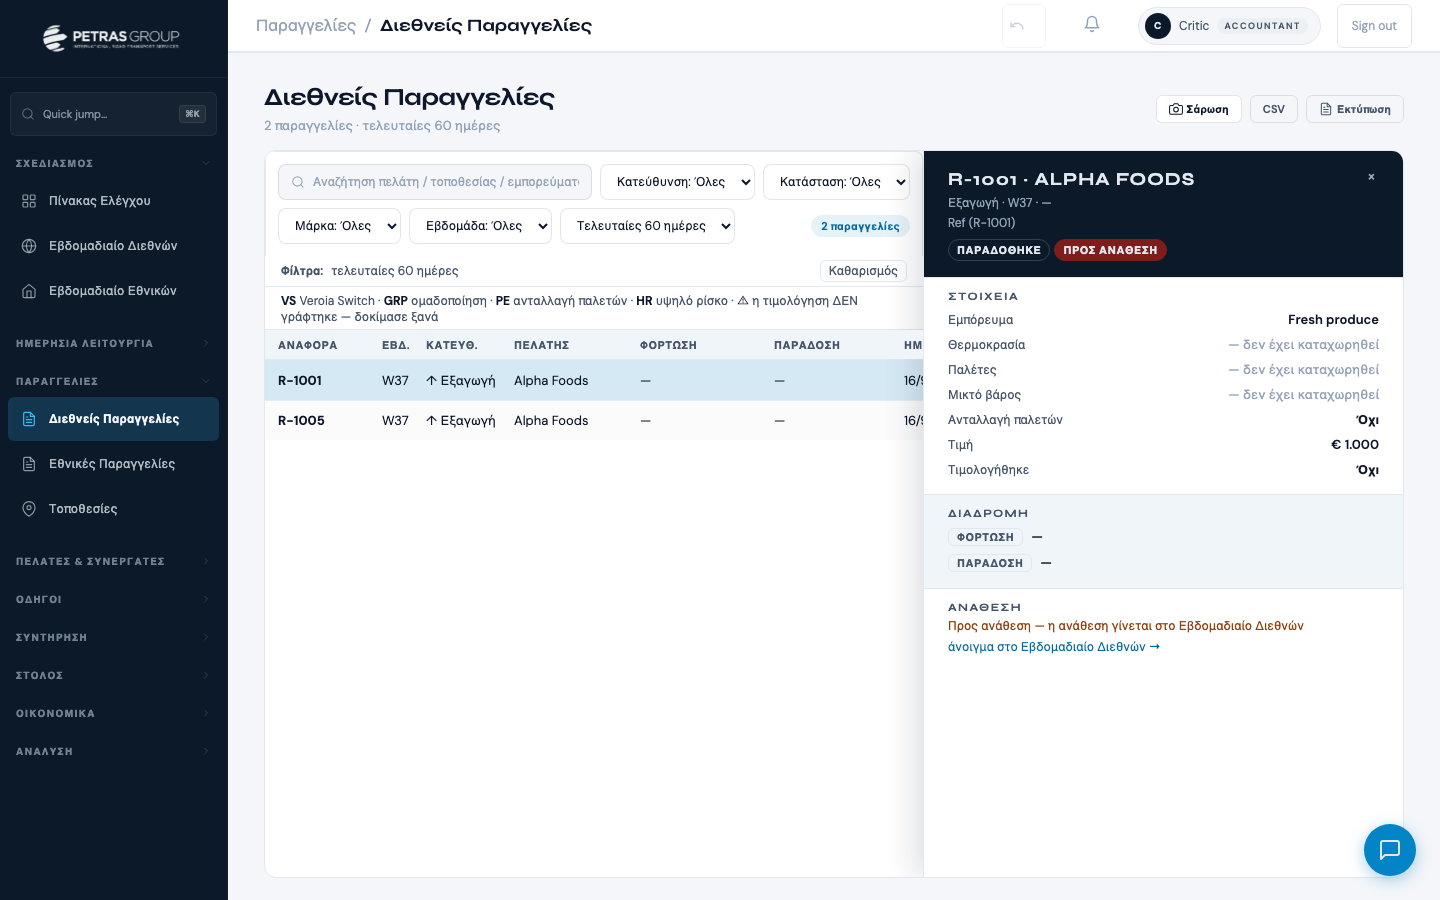
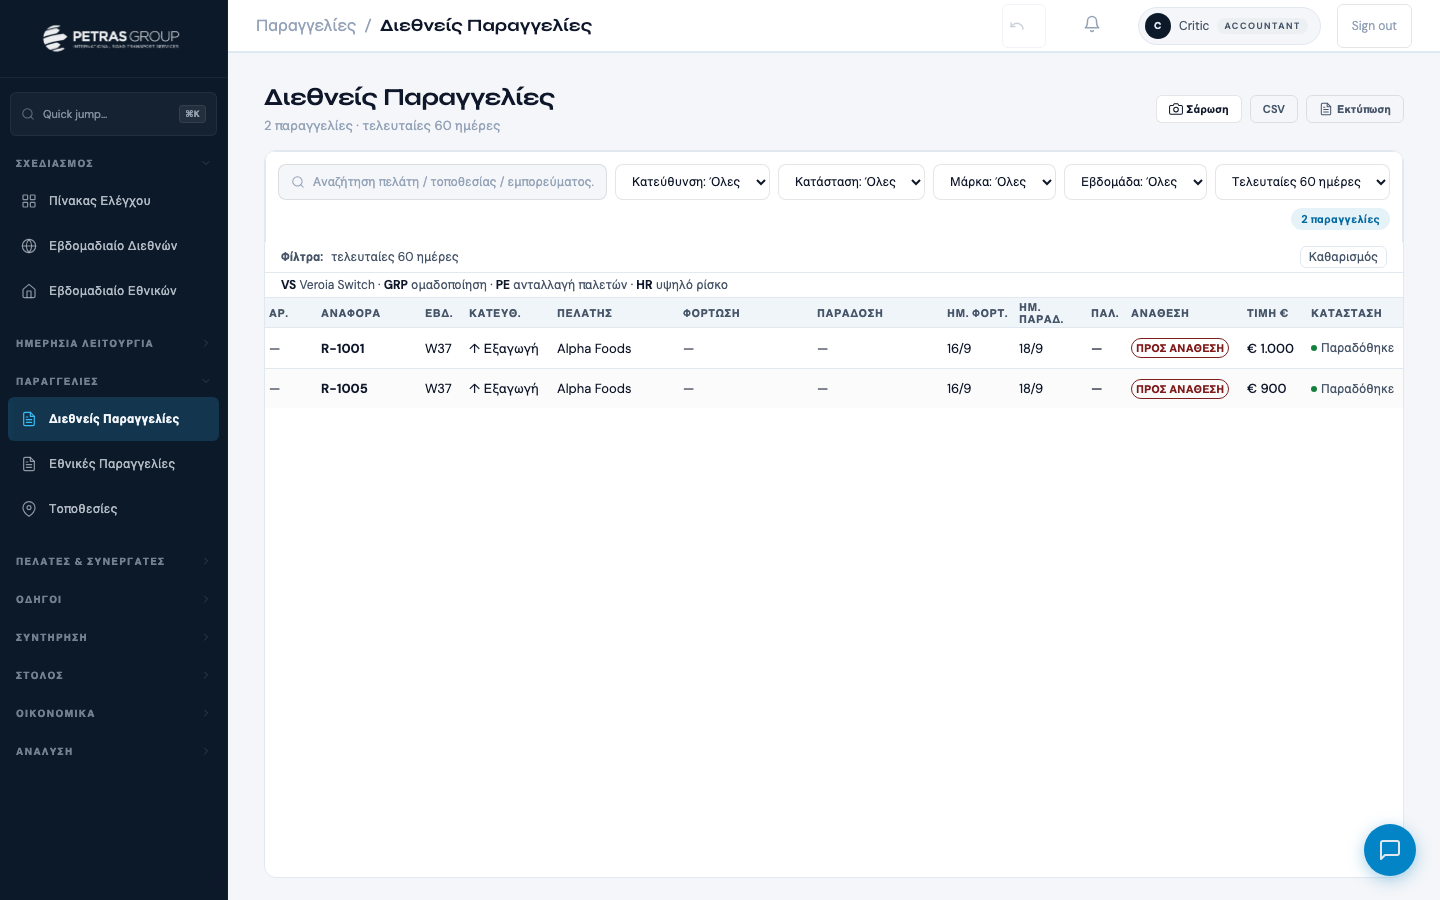
Παραγγελίες: μετά την αφαίρεση της δεύτερης πόρτας — φεύγει η λεζάντα «⚠ η τιμολόγηση ΔΕΝ γράφτηκε» (intl+natl), το νεκρό _onInvErr/ring CSS των Εθνικών, το cursor:pointer του κελιού· screenshots «μετά» με κλειστό πάνελ και στις δύο λίστες (✓ μόνο-ανάγνωση, 0 PATCH)

Changed region(s): [[0.1562, 0.1556, 1.0, 0.5289], [0.6562, 0.56, 0.9062, 0.7467], [0.4062, 0.2489, 0.5, 0.28]]

diff --git a/modules/orders_natl.js b/modules/orders_natl.js
@@ -50,7 +50,6 @@ async function renderOrdersNatl() {
     Object.keys(_natlFilters).forEach(k => delete _natlFilters[k]);
     // Δ3: a stale ⚠ from a previous visit would claim a write failed in THIS
     // list. The map is module-level, so it survives navigation unless wiped.
-    Object.keys(_onInvErr).forEach(k => delete _onInvErr[k]);
     _onPage = 1;
 
     // Pre-resolve all client names — batch fetches in parallel (not N+1)
@@ -173,13 +172,11 @@ const _ON_CSS = `
 /* 4px, not var(--space-2): the error ring below is ~42px wide and the column is
    44px — the default padding clipped its right edge (measured 3/9). */
 .on-v2 .entity-table-wrap tbody td.on-inv{padding:0 4px}
-.on-inv{cursor:pointer;text-align:center}
+.on-inv{text-align:center}
 .on-inv-box{display:inline-block;width:16px;height:16px;border:1px solid var(--border-dark);border-radius:var(--radius);background:var(--surface-card);vertical-align:middle}
 .on-inv-on{font-weight:700;color:var(--ok)}
 /* Δ3: the ring carries the alarm so the ✓/box inside can keep carrying the
    state. Red outline + ⚠ side by side — never one instead of the other. */
-.on-inv-ring{display:inline-flex;align-items:center;gap:4px;padding:0 4px;border:1px solid var(--danger);border-radius:var(--radius)}
-.on-inv-fail{font-weight:700;font-size:11px;line-height:1;color:var(--danger)}
 /* Δ4: the symbols must be readable without hovering for a tooltip. */
 .on-legend{padding:8px 16px;color:var(--text-mid);font-size:12px;border-bottom:1px solid var(--border)}
 .on-legend b{font-weight:700;color:var(--text)}
@@ -240,7 +237,7 @@ const _ON_CSS = `
 // Δ4 (3/9): the badges and the ⚠ only explained themselves in a `title`, i.e.
 // only to someone who already suspected something. One line under the table
 // spells them out — cheaper than a tooltip nobody hovers.
-const _ON_LEGEND = '<b>VS</b> Veroia Switch · <b>GRP</b> ομαδοποίηση · <b>⚠</b> η τιμολόγηση ΔΕΝ γράφτηκε — δοκίμασε ξανά';
+const _ON_LEGEND = '<b>VS</b> Veroia Switch · <b>GRP</b> ομαδοποίηση';
 
 // Esc closes the card (spec §1). One listener, installed once, checks that the
 // card is on screen so it does nothing on other pages.
@@ -437,15 +434,11 @@ function _onLeg(key, label) {
 // answering the only question it exists to answer. The error also lives in a
 // module map, not in the DOM: the virtual scroller rewrites tbody.innerHTML on
 // the first scroll and the old in-place patch vanished with it.
-const _onInvErr = {};   // recId → error text; cleared by a write that succeeds
 function _onInvCell(r) {
-  const err = _onInvErr[r.id];
-  const state = r.fields['Invoiced']
-    ? '<span class="on-inv-on">✓</span>'
-    : '<span class="on-inv-box"></span>';
-  return err
-    ? `<span class="on-inv-ring" title="${escapeHtml(err)}">${state}<span class="on-inv-fail">⚠</span></span>`
-    : state;
+  // Read-only since 22/9 (owner): «τιμολογήθηκε» is written only from the
+  // Τιμολόγηση screen (ERP number + date) — see the intl list for the reason.
+  const on = !!r.fields['Invoiced'];
+  return on ? '<span class="on-inv-box on-inv-on">✓</span>' : '<span class="on-inv-box"></span>';
 }
 
 function _onRowHtml(r) {

diff --git a/modules/orders_intl.js b/modules/orders_intl.js
@@ -82,7 +82,7 @@ const _OI_STATUS = {
 // Δ4 (3/9): the badges and the ⚠ only explained themselves in a `title`, i.e.
 // only to someone who already suspected something. One line under the table
 // spells them out — cheaper than a tooltip nobody hovers.
-const _OI_LEGEND = '<b>VS</b> Veroia Switch · <b>GRP</b> ομαδοποίηση · <b>PE</b> ανταλλαγή παλετών · <b>HR</b> υψηλό ρίσκο · <b>⚠</b> η τιμολόγηση ΔΕΝ γράφτηκε — δοκίμασε ξανά';
+const _OI_LEGEND = '<b>VS</b> Veroia Switch · <b>GRP</b> ομαδοποίηση · <b>PE</b> ανταλλαγή παλετών · <b>HR</b> υψηλό ρίσκο';
 const _OI_DIR    = { Export: '↑ Εξαγωγή', Import: '↓ Εισαγωγή' };
 const _OI_DIR_W  = { Export: 'Εξαγωγή',   Import: 'Εισαγωγή' };
 const _OI_REEFER = { 'Continuous': 'Συνεχής', 'Start-Stop': 'Start-Stop', 'No temp': 'Χωρίς ψύξη' };
@@ -253,12 +253,10 @@ function _oiCss() { return `
 .oi-st{color:var(--text-mid);font-size:12px}
 /* 4px, not 8px: the error ring below is ~34px wide and the column is 40px. */
 .oi-layout .entity-table-wrap tbody td.oi-inv{padding:0 4px}
-.oi-inv{cursor:pointer;text-align:center}
+.oi-inv{text-align:center}
 .oi-chk{display:inline-block;width:18px;height:18px;border:1px solid var(--border-dark);border-radius:6px;background:var(--surface-card);vertical-align:middle;line-height:16px;font-size:11px;font-weight:700;color:var(--text-mid)}
 .oi-chk.on{border-color:var(--text-mid)}
 /* Δ3: the ring carries the alarm so the box inside can keep carrying the state. */
-.oi-inv-ring{display:inline-flex;align-items:center;gap:4px;padding:0 4px;border:1px solid var(--danger);border-radius:6px}
-.oi-inv-err{color:var(--danger);font-weight:700;font-size:11px;line-height:1}
 /* Δ4: the marks must be readable without hunting for a tooltip. */
 .oi-legend{padding:4px 16px;color:var(--text-mid);font-size:12px;border-bottom:1px solid var(--border)}
 .oi-legend b{font-weight:700;color:var(--text)}
